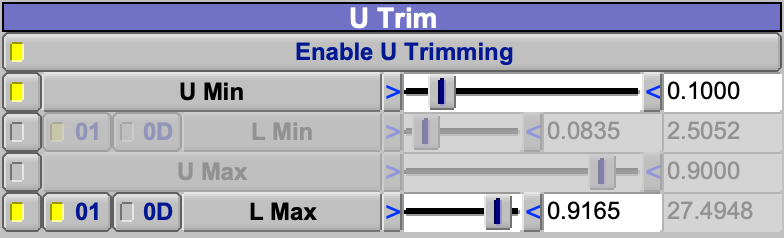
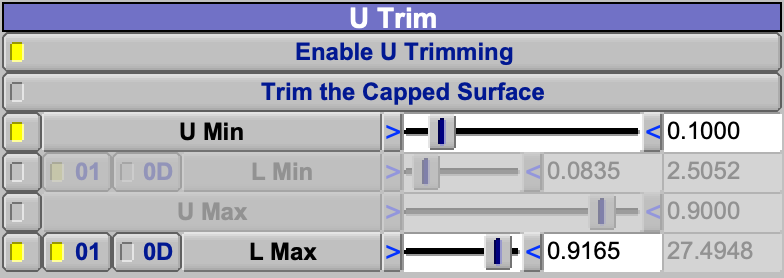
Document a Conformal's caps, trim caps and newer parents
A Conformal's caps are now offset inside its parent's, its trim caps
are relative with none of the parent cap's modifiers, and Trim the
Capped Surface trims inside a cap.  A Human shown by its surfaces and
the DATCOM components can be parents, and an MDC_FIN is treated as a
wing.  The U Trim screenshot shows Trim the Capped Surface.

diff --git a/src/help/html/Conformal.html b/src/help/html/Conformal.html
@@ -157,10 +157,11 @@ that it lies on the body with the hinge at rest and swings with the
 hinge. A detached Conformal's symmetry still follows its conformal
 parent's, and its symmetry controls stay greyed.</p>
 <p>A Conformal can be made on a Fuselage, Stack, Wing, Pod, Ellipsoid,
-Body of Revolution, Cobra or Custom component, or on a Clone of one,
-which gives it the Clone's placement. It cannot be made on a Human, a
-Gear, nor on another Conformal; OpenVSP reports an error instead. On a
-component that has no notion of an offset, such as a Propeller, the
+Body of Revolution, Cobra, Custom or DATCOM component, on a Human shown
+by its surfaces, or on a Clone of one, which gives it the Clone's
+placement. It cannot be made on a Human shown as a mesh, a Gear, nor on
+another Conformal; OpenVSP reports an error instead. On a component that
+has no notion of an offset, such as a Propeller or a Human, the
 Conformal is a copy of the parent's surface. A Conformal on a Cobra is
 offset but not trimmed: every trim is ignored.</p>
 <h2 id="offset">Offset</h2>
@@ -178,18 +179,22 @@ where the parent ends in a point or in a cap: each end moves along the
 body until it is the offset from the parent's surface, so the Conformal
 closes inside the parent (Figure 2). Unchecked, the ends stay at the
 parent's nose and tail points and the Conformal touches the parent
-there. On a Wing the ends move in along the span by the offset. The
-check box acts on a component built from cross sections: a Fuselage,
-Stack, Wing or custom component. On a Pod, Ellipsoid, Body of Revolution
-or Cobra the ends always move in by the offset, and the check box is
+there. On a Wing, or a component whose surface is a wing's such as an
+MDC_FIN, the ends move in along the span by the offset. The check box
+acts on a component built from cross sections: a Fuselage, Stack, Wing,
+custom or DATCOM component. On a Pod, Ellipsoid, Body of Revolution or
+Cobra the ends always move in by the offset, and the check box is
 greyed.</p>
 <p><img src="images/Conformal_ends.png" title="Figure 2. Offset Ends"
 alt="Figure 2. Offset Ends" /></p>
 <p><em>Figure 2. The nose of the same Fuselage and Conformal, cut
 through the axis: with Offset Ends (filled) and without
 (dashed).</em></p>
-<p>The Conformal's end caps are the parent's, unless it is trimmed along
-its length.</p>
+<p>The Conformal's end caps are the parent's, offset inside them, unless
+it is trimmed along its length. A Cone or Ogive cap keeps the parent's
+sphere, smaller by the offset, and the end of a cap that carries the
+body on, such as Round or Point, moves back only as far as the offset
+body meets the offset cap.</p>
 <h2 id="trimming-along-the-length">Trimming Along the Length</h2>
 <p><em>Enable U Trimming</em> cuts off the Conformal's ends. Each end is
 set one of three ways, chosen by the toggles before the sliders (Figure
@@ -218,8 +223,15 @@ place an end at a known station of a body: on the default Fuselage,
 about 3, a tenth of its length. The ends cannot cross; each is kept at
 least 0.001 short of the other.</p>
 <p>The trimmed ends are closed by the caps chosen under <em>U Trim Tip
-Treatment</em>, Flat by default. They work as the end caps of a Fuselage
-do (see <a href="FuselageStack.html#end-caps">End Caps</a>).</p>
+Treatment</em>, Flat by default: the None, Flat, Round, Edge and Sharp
+caps of a Fuselage (see <a href="FuselageStack.html#end-caps">End
+Caps</a>), always relative to the end, and without the parent cap's
+Radius, Truncate, Shear or Scaled Rows.</p>
+<p><em>Trim the Capped Surface</em> caps the Conformal as its parent
+before the U trim, which then measures and cuts the capped surface, so
+an end can be trimmed inside a cap, an ogive nose say. The trim caps
+close the cut ends, and an end the trim does not reach keeps the
+parent's cap.</p>
 <h2 id="trimming-around-the-surface">Trimming Around the Surface</h2>
 <p>The trims around the surface cut a band off each cross section and
 close the cut with a straight line, so the Conformal stays closed and is
@@ -246,8 +258,9 @@ Trim is one number and stays centered on its side, so a flat floor stays
 level as it is widened, and four sides can be cut; V Trim needs both
 ends of each band and gives only two. Use V Trim only for a band that is
 not centered on a side.</p>
-<p><em>Side Trim</em>, offered when the parent is not a Wing, cuts off a
-band centered on one side, <em>Side 1</em> to <em>Side 4</em> at
+<p><em>Side Trim</em>, offered when the parent is not a Wing or an
+MDC_FIN, cuts off a band centered on one side, <em>Side 1</em> to
+<em>Side 4</em> at
 <math display="inline" xmlns="http://www.w3.org/1998/Math/MathML"><semantics><mi>W</mi><annotation encoding="application/x-tex">W</annotation></semantics></math>
 = 0, 0.5, 0.25 and 0.75; each value is the width of the band, as a
 fraction of the way around. On a Fuselage, a Stack or an Ellipsoid these
@@ -266,9 +279,10 @@ alt="Figure 4. Trims" /></p>
 (outline), trimmed to L 0.3 to 0.7, with Side 4 0.3 cutting its top
 flat.</em></p>
 <h2 id="trimming-a-wing">Trimming a Wing</h2>
-<p>On a Wing, the Conformal's sections are the wing's airfoils, each
-offset into the wing, and its ends move in along the span by the offset.
-The Side Trim group is replaced by Wing Trim.</p>
+<p>On a Wing, or a component whose surface is a wing's such as an
+MDC_FIN, the Conformal's sections are the wing's airfoils, each offset
+into the wing, and its ends move in along the span by the offset. The
+Side Trim group is replaced by Wing Trim.</p>
 <ul>
 <li><em>Chord Min</em> and <em>Chord Max</em>, with their toggle
 checked, keep the part of each airfoil between two fractions of the
@@ -350,6 +364,11 @@ style="text-align: left;"><code>HingeConformalPositionFlag</code></td>
 <tr>
 <td style="text-align: left;">Enable U Trimming</td>
 <td style="text-align: left;"><code>UTrimFlag</code></td>
+<td style="text-align: left;">off</td>
+</tr>
+<tr>
+<td style="text-align: left;">Trim the Capped Surface</td>
+<td style="text-align: left;"><code>CapBeforeTrimFlag</code></td>
 <td style="text-align: left;">off</td>
 </tr>
 <tr>

diff --git a/src/help/figure_src/conformal/shots.py b/src/help/figure_src/conformal/shots.py
@@ -28,7 +28,7 @@ def wing_tank():
         vsp.SetParmVal( c, k, "Design", v )
 
 
-snap.shots( fuselage_utrim, "CONFORMAL_SCREEN", { "Conformal_gui_utrim": ( "Conformal_Design", ( 4, 161, 396, 280 ) ) },
+snap.shots( fuselage_utrim, "CONFORMAL_SCREEN", { "Conformal_gui_utrim": ( "Conformal_Design", ( 4, 161, 396, 300 ) ) },
             name = "conformal_fuselage_utrim" )
-snap.shots( wing_tank, "CONFORMAL_SCREEN", { "Conformal_gui_wingtrim": ( "Conformal_Design", ( 4, 509, 396, 726 ) ) },
+snap.shots( wing_tank, "CONFORMAL_SCREEN", { "Conformal_gui_wingtrim": ( "Conformal_Design", ( 4, 529, 396, 746 ) ) },
             name = "conformal_wing_tank" )

diff --git a/src/help/Conformal.md b/src/help/Conformal.md
@@ -51,10 +51,11 @@ relative to Conformal Parent* places it, relative to the hinge, exactly where it
 on the body with the hinge at rest and swings with the hinge.  A detached Conformal's symmetry still follows its
 conformal parent's, and its symmetry controls stay greyed.
 
-A Conformal can be made on a Fuselage, Stack, Wing, Pod, Ellipsoid, Body of Revolution, Cobra or Custom component,
-or on a Clone of one, which gives it the Clone's placement.  It cannot be made on a Human, a Gear, nor on another
-Conformal; OpenVSP reports an error instead.  On a component that has no notion of an offset, such as a Propeller, the
-Conformal is a copy of the parent's surface.  A Conformal on a Cobra is offset but not trimmed: every trim is ignored.
+A Conformal can be made on a Fuselage, Stack, Wing, Pod, Ellipsoid, Body of Revolution, Cobra, Custom or DATCOM
+component, on a Human shown by its surfaces, or on a Clone of one, which gives it the Clone's placement.  It cannot be
+made on a Human shown as a mesh, a Gear, nor on another Conformal; OpenVSP reports an error instead.  On a component
+that has no notion of an offset, such as a Propeller or a Human, the Conformal is a copy of the parent's surface.  A
+Conformal on a Cobra is offset but not trimmed: every trim is ignored.
 
 ## Offset
 
@@ -69,8 +70,9 @@ default Fuselage an offset of 0.1 lies between 0.092 and 0.104 from the skin.
 *Offset Ends* moves the ends of the Conformal in as well, where the parent ends in a point or in a cap: each end moves
 along the body until it is the offset from the parent's surface, so the Conformal closes inside the parent
 (Figure 2).  Unchecked, the ends stay at the parent's nose and tail points and the Conformal touches the parent there.
-On a Wing the ends move in along the span by the offset.  The check box acts on a component built from cross sections:
-a Fuselage, Stack, Wing or custom component.  On a Pod, Ellipsoid, Body of Revolution or Cobra the ends always move in
+On a Wing, or a component whose surface is a wing's such as an MDC_FIN, the ends move in along the span by the
+offset.  The check box acts on a component built from cross sections: a Fuselage, Stack, Wing, custom or DATCOM
+component.  On a Pod, Ellipsoid, Body of Revolution or Cobra the ends always move in
 by the offset, and the check box is greyed.
 
 ![Figure 2. Offset Ends](images/Conformal_ends.png "Figure 2. Offset Ends")
@@ -78,7 +80,9 @@ by the offset, and the check box is greyed.
 *Figure 2. The nose of the same Fuselage and Conformal, cut through the axis: with Offset Ends (filled) and without
 (dashed).*
 
-The Conformal's end caps are the parent's, unless it is trimmed along its length.
+The Conformal's end caps are the parent's, offset inside them, unless it is trimmed along its length.  A Cone or Ogive
+cap keeps the parent's sphere, smaller by the offset, and the end of a cap that carries the body on, such as Round or
+Point, moves back only as far as the offset body meets the offset cap.
 
 ## Trimming Along the Length
 
@@ -101,8 +105,13 @@ Each setting shows the same end in the other forms.  Use *L* to place an end at 
 default Fuselage, *U* 0.1 falls 2.5 from the nose, while *L* 0.1 falls at about 3, a tenth of its length.  The ends
 cannot cross; each is kept at least 0.001 short of the other.
 
-The trimmed ends are closed by the caps chosen under *U Trim Tip Treatment*, Flat by default.  They work as the end
-caps of a Fuselage do (see [End Caps](FuselageStack.md#end-caps)).
+The trimmed ends are closed by the caps chosen under *U Trim Tip Treatment*, Flat by default: the None, Flat, Round,
+Edge and Sharp caps of a Fuselage (see [End Caps](FuselageStack.md#end-caps)), always relative to the end, and without
+the parent cap's Radius, Truncate, Shear or Scaled Rows.
+
+*Trim the Capped Surface* caps the Conformal as its parent before the U trim, which then measures and cuts the capped
+surface, so an end can be trimmed inside a cap, an ogive nose say.  The trim caps close the cut ends, and an end the
+trim does not reach keeps the parent's cap.
 
 ## Trimming Around the Surface
 
@@ -118,11 +127,11 @@ Prefer *Side Trim* to *V Trim* off a Wing.  Each Side Trim is one number and sta
 floor stays level as it is widened, and four sides can be cut; V Trim needs both ends of each band and gives only
 two.  Use V Trim only for a band that is not centered on a side.
 
-*Side Trim*, offered when the parent is not a Wing, cuts off a band centered on one side, *Side 1* to *Side 4* at
-$W$ = 0, 0.5, 0.25 and 0.75; each value is the width of the band, as a fraction of the way around.  On a Fuselage, a
-Stack or an Ellipsoid these are the right ($+Y$), left, bottom and top; on a Pod, whose $W$ starts at the top, they
-are the top, bottom, right and left.  On a Body of Revolution $W$ runs around the section, not around the axis, and
-*U* runs around the axis.
+*Side Trim*, offered when the parent is not a Wing or an MDC_FIN, cuts off a band centered on one side, *Side 1* to
+*Side 4* at $W$ = 0, 0.5, 0.25 and 0.75; each value is the width of the band, as a fraction of the way around.  On a
+Fuselage, a Stack or an Ellipsoid these are the right ($+Y$), left, bottom and top; on a Pod, whose $W$ starts at the
+top, they are the top, bottom, right and left.  On a Body of Revolution $W$ runs around the section, not around the
+axis, and *U* runs around the axis.
 
 ![Figure 4. Trims](images/Conformal_trims.png "Figure 4. Trims")
 
@@ -131,8 +140,9 @@ cutting its top flat.*
 
 ## Trimming a Wing
 
-On a Wing, the Conformal's sections are the wing's airfoils, each offset into the wing, and its ends move in along
-the span by the offset.  The Side Trim group is replaced by Wing Trim.
+On a Wing, or a component whose surface is a wing's such as an MDC_FIN, the Conformal's sections are the wing's
+airfoils, each offset into the wing, and its ends move in along the span by the offset.  The Side Trim group is
+replaced by Wing Trim.
 
 - *Chord Min* and *Chord Max*, with their toggle checked, keep the part of each airfoil between two fractions of the
   chord and cut off the leading and trailing edges, leaving flat walls where the spars of a tank would be.  They set
@@ -179,6 +189,7 @@ its front edge and turned by Rotate 30.  The dashed outline is the flap at rest.
 | Offset                 | `Offset`                                    | 0.1             |
 | Offset Ends            | `OffSetEnds`                                | on              |
 | Enable U Trimming      | `UTrimFlag`                                 | off             |
+| Trim the Capped Surface | `CapBeforeTrimFlag`                        | off             |
 | Trim type of each end  | `UMinTrimTypeFalg`, `UMaxTrimTypeFalg`      | `U_TRIM`; also `L_TRIM`, `ETA_TRIM` |
 | U Min, U Max           | `UTrimMin`, `UTrimMax`                      | 0.1, 0.9        |
 | L Min, L Max           | `LTrimMin`, `LTrimMax`; `L0LenTrimMin`, `L0LenTrimMax` | 0.1, 0.9 |
